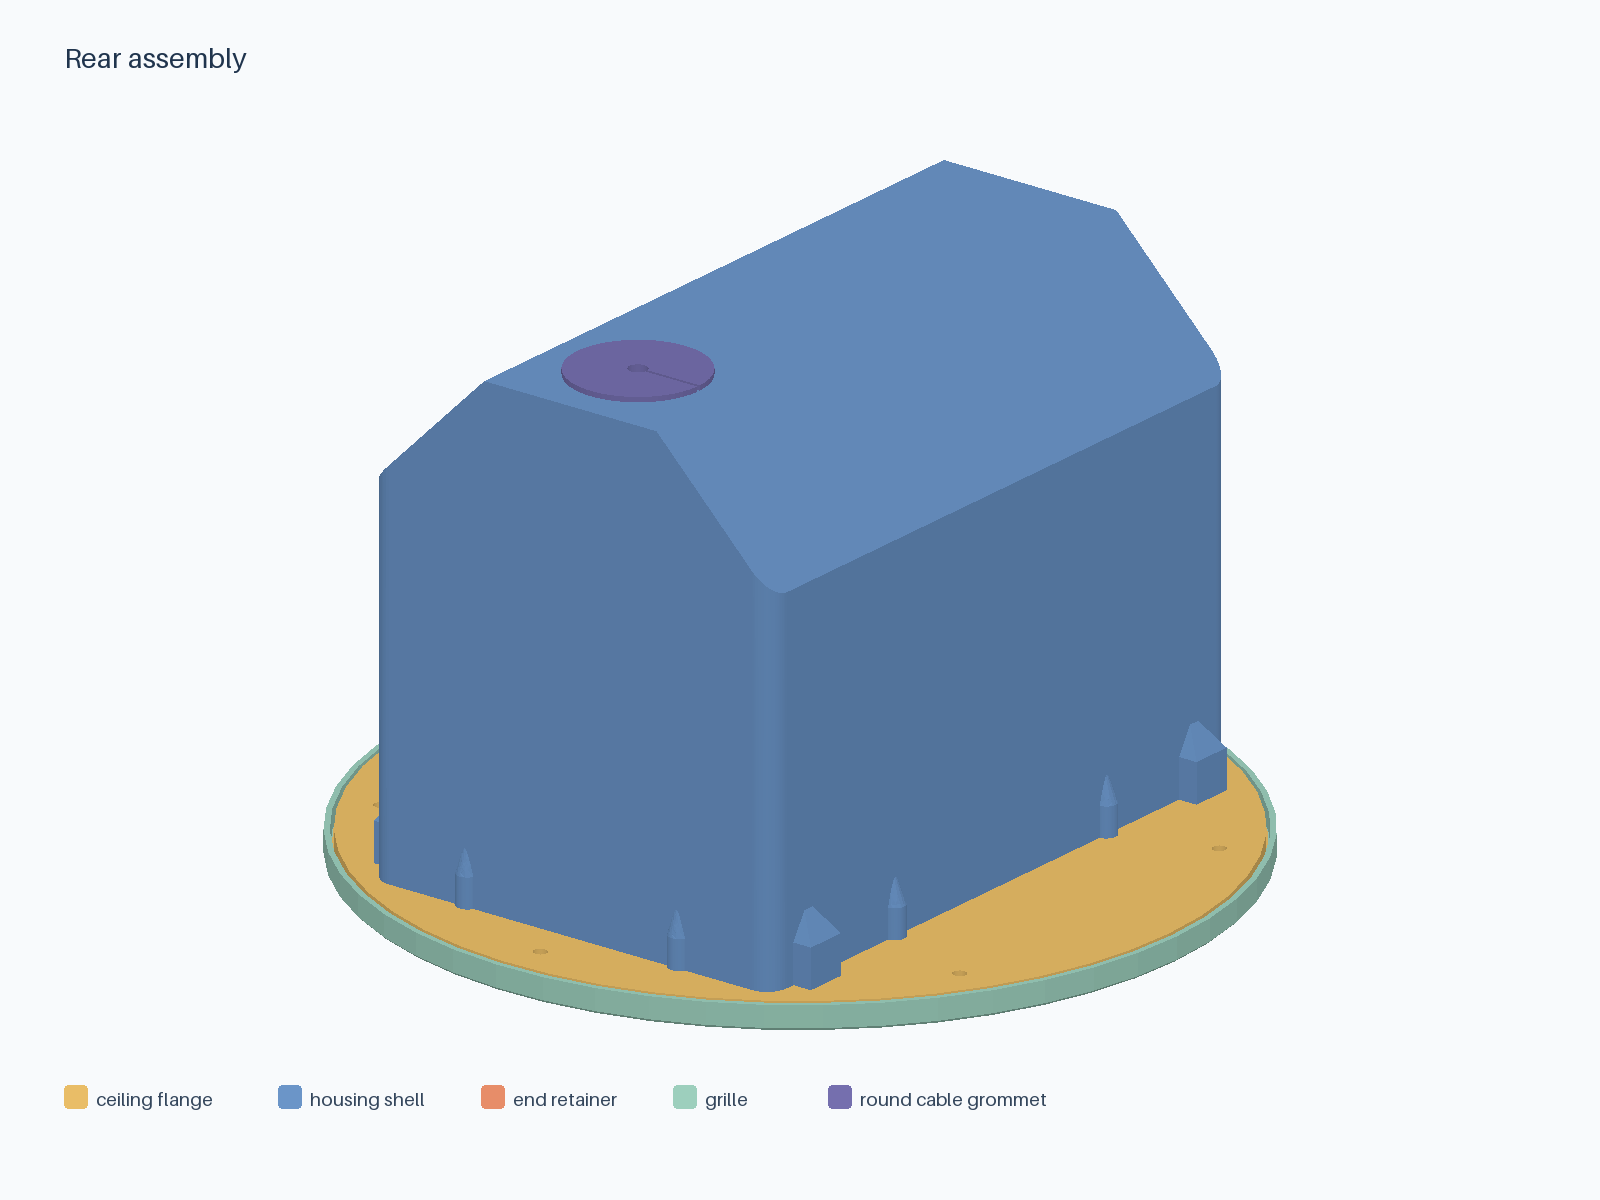
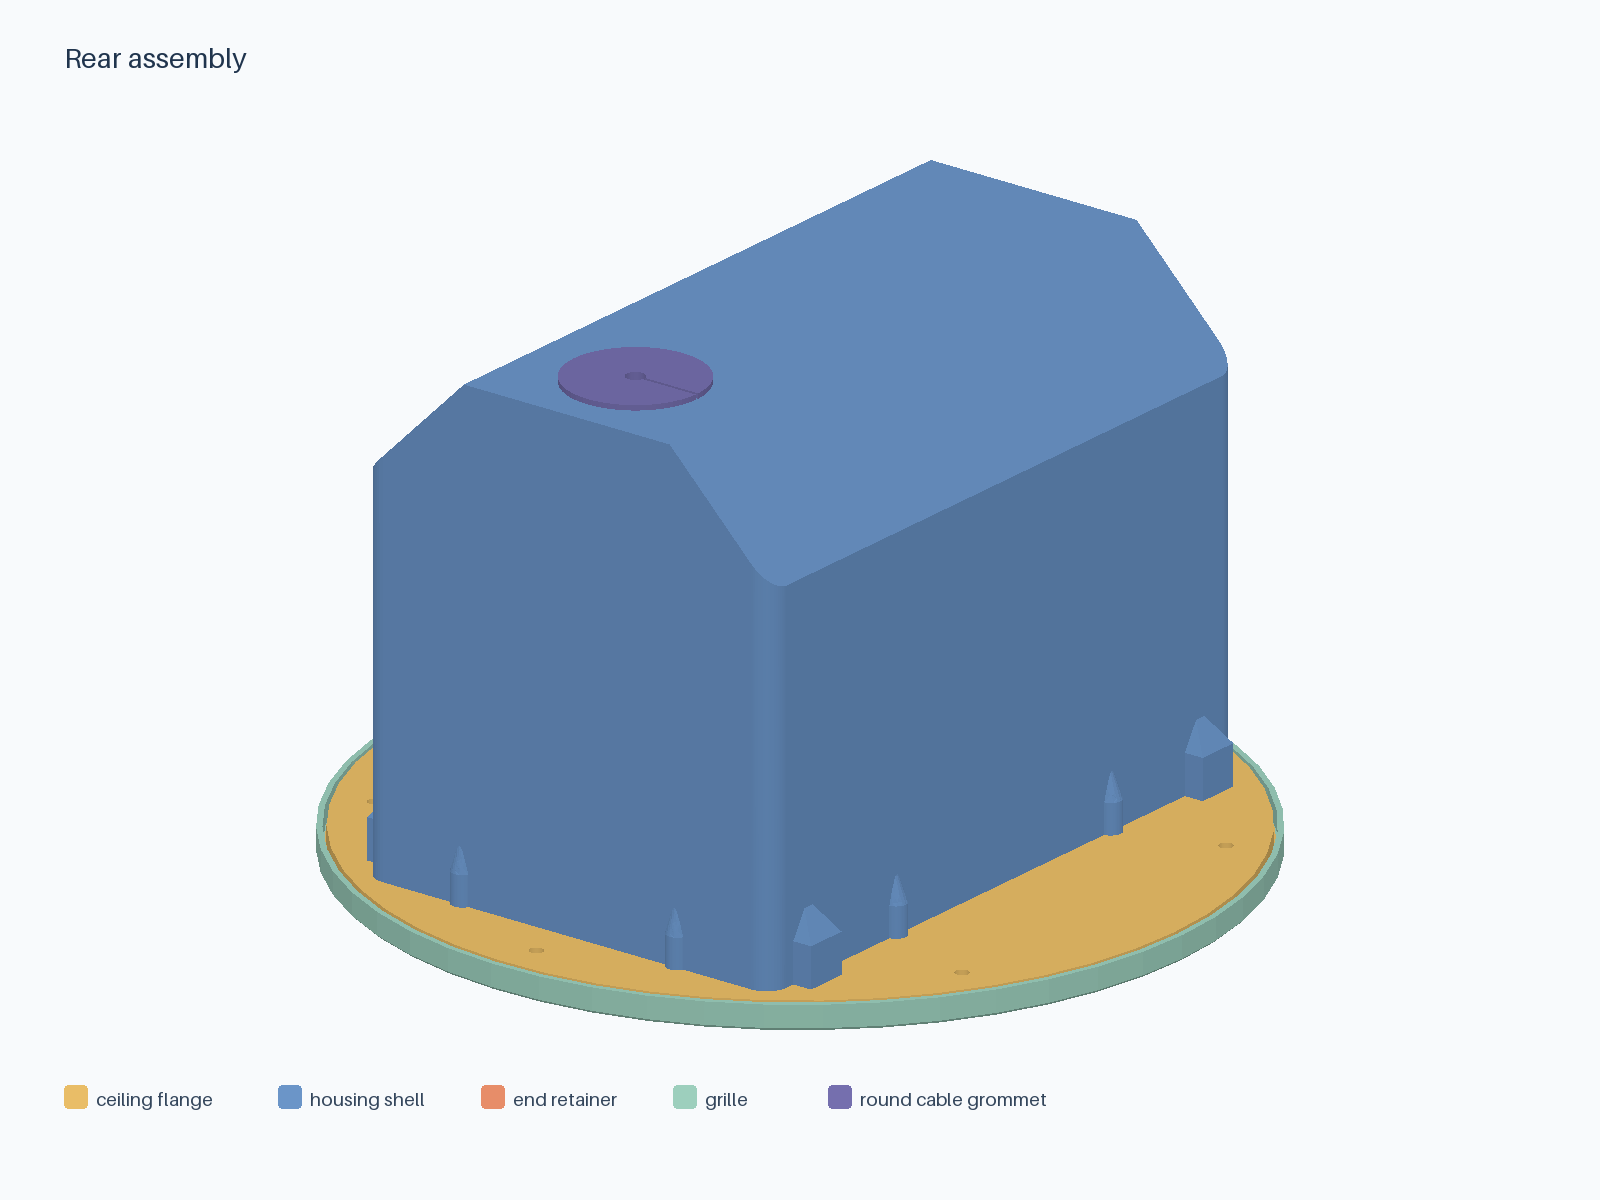
Reduce Era 100 rear roof clearance to 5 mm

diff --git a/models/sonos-era-100-ceiling-mount-build123d/validate.py b/models/sonos-era-100-ceiling-mount-build123d/validate.py
@@ -13,7 +13,7 @@ from parts import retainers as retainer_dims
 from parts.grommets import GROMMET_FLANGE_RADIUS, flat_cable_grommet
 from parts.template import ceiling_cutout_profile
 from paths import BUILD, REPORTS
-from speaker import SPEAKER_DEPTH, speaker_mockup
+from speaker import SPEAKER_DEPTH, SPEAKER_FRONT_Z, speaker_mockup
 
 OUT=REPORTS
 
@@ -42,6 +42,9 @@ def run():
     check(overlap(flange,shell)<0.001,'flange/shell overlap')
     house=flange+shell
     check(overlap(house,speaker)<0.001,'speaker/housing overlap')
+    rear_apex = SPEAKER_FRONT_Z + SPEAKER_DEPTH
+    check(abs(housing.INNER_APEX_Z-rear_apex-5.0)<1e-6,
+          'nominal rear apex clearance must be 5 mm')
     for distance in np.linspace(0,SPEAKER_DEPTH,15):
         check(overlap(house,Pos(0,0,-float(distance))*speaker)<0.001,
               f'speaker insertion collision at {distance:.1f} mm')
@@ -125,6 +128,8 @@ def run():
     grommet=direct.get('cable-grommet')
     flat_grommet=grommet_placement()*flat_cable_grommet()
     for item in (grommet, flat_grommet):
+        check(overlap(item,speaker)<0.001,
+              'rear cable grommet intersects nominal speaker envelope')
         bounds=item.bounding_box()
         check(bounds.max.Z>housing.OUTER_APEX_Z+1.4,
               'grommet flange must be on the rear/outside of roof')
@@ -146,6 +151,9 @@ def run():
         'cable_passage_diameter_mm':housing.CABLE_HOLE_DIAMETER,
         'nominal_plug_radial_clearance_mm':(housing.CABLE_HOLE_DIAMETER-housing.ASSUMED_PLUG_DIAMETER)/2,
         'grommet_flange_diameter_mm':2*GROMMET_FLANGE_RADIUS,
+        'speaker_rear_apex_z_mm':rear_apex,
+        'inner_roof_apex_z_mm':housing.INNER_APEX_Z,
+        'rear_apex_clearance_mm':housing.INNER_APEX_Z-rear_apex,
         'm2_axes_checked':len(housing.JOINT_FIXINGS+housing.END_JOINT_FIXINGS),
         'm3_axes_checked':len(housing.RETAINER_FIXINGS),
         'retainer_base_thickness_mm':housing.RETAINER_SEAT_DEPTH,

diff --git a/models/sonos-era-100-ceiling-mount-build123d/views/drawings/cable_passage.py b/models/sonos-era-100-ceiling-mount-build123d/views/drawings/cable_passage.py
@@ -6,12 +6,14 @@ sys.path.insert(0, str(Path(__file__).resolve().parents[2]))
 from views.common import dimensioned_view
 from cad_dimension_drawing import LinearDimension, SectionDrawing
 from parts.housing import (ASSUMED_PLUG_DIAMETER, CABLE_EXIT_Y,
-                           CABLE_HOLE_DIAMETER, housing_shell)
+                           CABLE_HOLE_DIAMETER, INNER_APEX_Z, OUTER_APEX_Z,
+                           housing_shell)
 from parts.grommets import GROMMET_FLANGE_RADIUS
 
 
 def render():
-    drawing = SectionDrawing(housing_shell(), 'xy', 152)
+    drawing = SectionDrawing(housing_shell(), 'xy',
+                             (INNER_APEX_Z + OUTER_APEX_Z) / 2)
     holes = drawing.round_holes(min_diameter=31.9, max_diameter=32.1)
     if len(holes) != 1 or abs(holes[0].centre[1] - CABLE_EXIT_Y) > 0.01:
         raise ValueError('Expected one circular rear cable passage at the design centre')

diff --git a/models/sonos-era-100-ceiling-mount-build123d/parts/housing.py b/models/sonos-era-100-ceiling-mount-build123d/parts/housing.py
@@ -14,7 +14,7 @@ SIDE_WALL = 4.5
 ROOF_WALL = 7.0
 ROOF_SHOULDER_HALF_WIDTH = 10.0       # virtual apex before the flat truncation
 ROOF_VERTICAL_WALL = 10.0             # 7.1 mm normal thickness on 45° faces
-ROOF_CENTRE_CLEARANCE = 10.0          # dummy speaker rear apex to inner flat
+ROOF_CENTRE_CLEARANCE = 5.0           # dummy speaker rear apex to inner flat
 FLANGE_RADIUS = 122.5                 # Ø245; preserves 4 mm land beyond cutout
 FLANGE_THICKNESS = 6.0
 RETAINER_SEAT_DEPTH = 4.8             # full-length beam; 1.2 mm flange bridge preserves seam

diff --git a/models/sonos-era-100-ceiling-mount-build123d/README.md b/models/sonos-era-100-ceiling-mount-build123d/README.md
@@ -29,6 +29,8 @@ Dimensions live with the part that defines the feature. `speaker.py` owns the me
 
 The shell has a Ø32 mm rear cable passage for the factory plug, measured at approximately 30 mm across. Feed the plug through the shell before pressing a split TPU grommet around the cable. Both round- and flat-cable grommets have Ø40 mm rear flanges that cover the passage; their stems press into it. The [annotated cable-passage section](views/drawings/cable_passage.svg) measures the opening from the CAD solid. The plug allowance is based on an approximate measurement, so check its thickest orientation before printing the replacement shell. The optional teal flat seam gasket sits between the shell and ceiling flange.
 
+The prototype shell is 144.5 mm high from the flange interface plane to the rear outside face. Its inner flat roof is 5 mm beyond the modeled speaker rear apex; the physical speaker should be measured before treating this as a guaranteed fit.
+
 ## Rebuild and inspect
 
 From the repository root, create the shared environment and regenerate every declared output:
